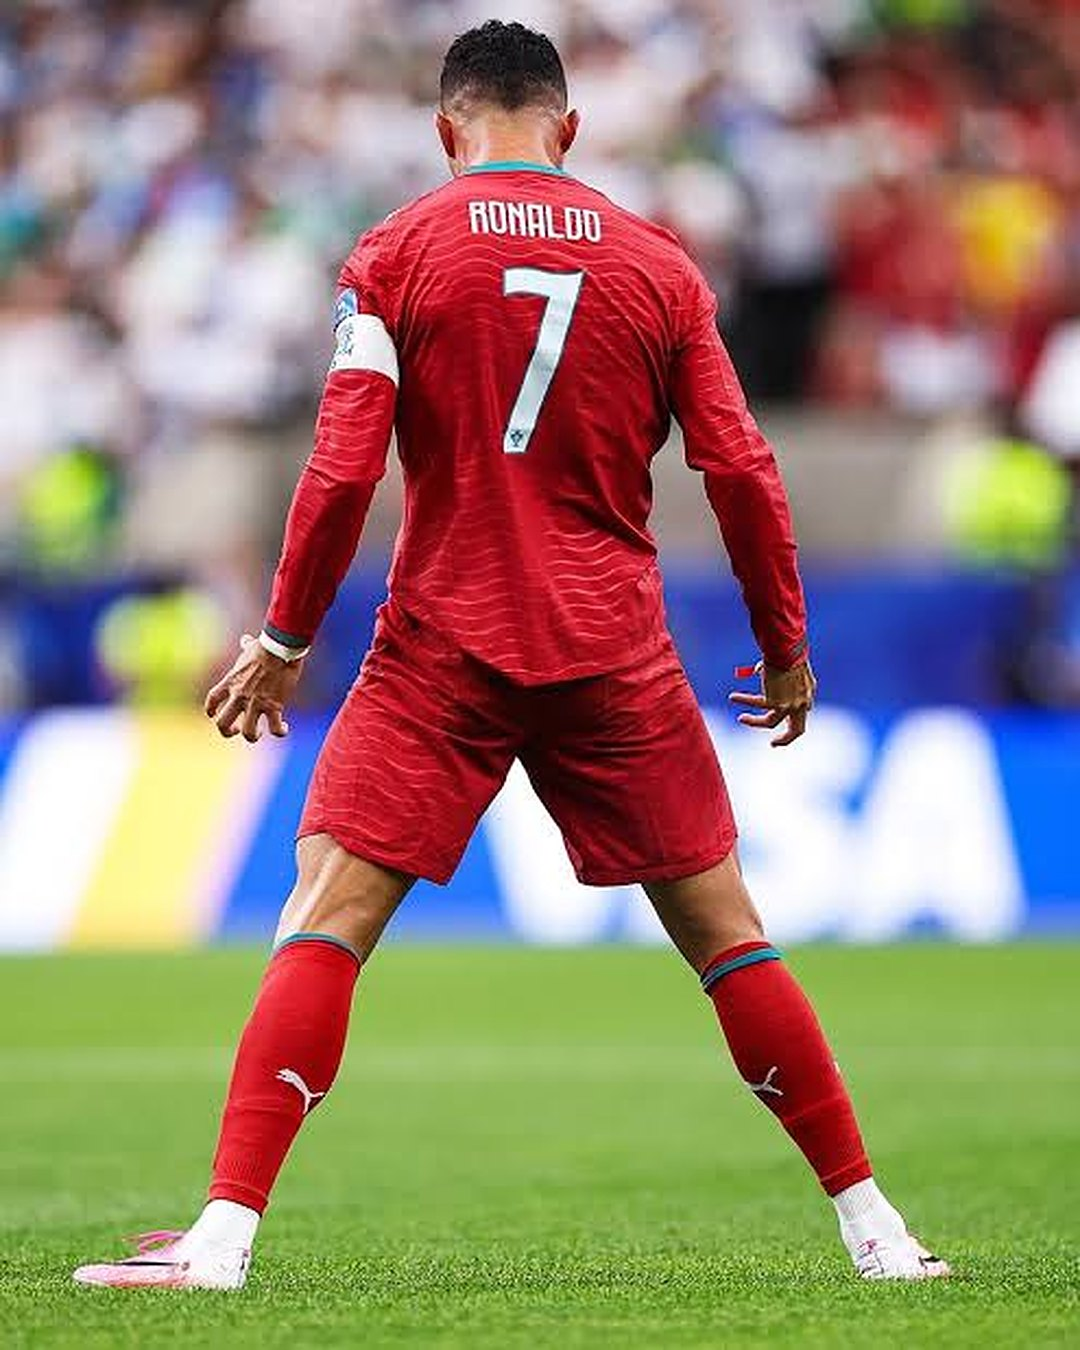
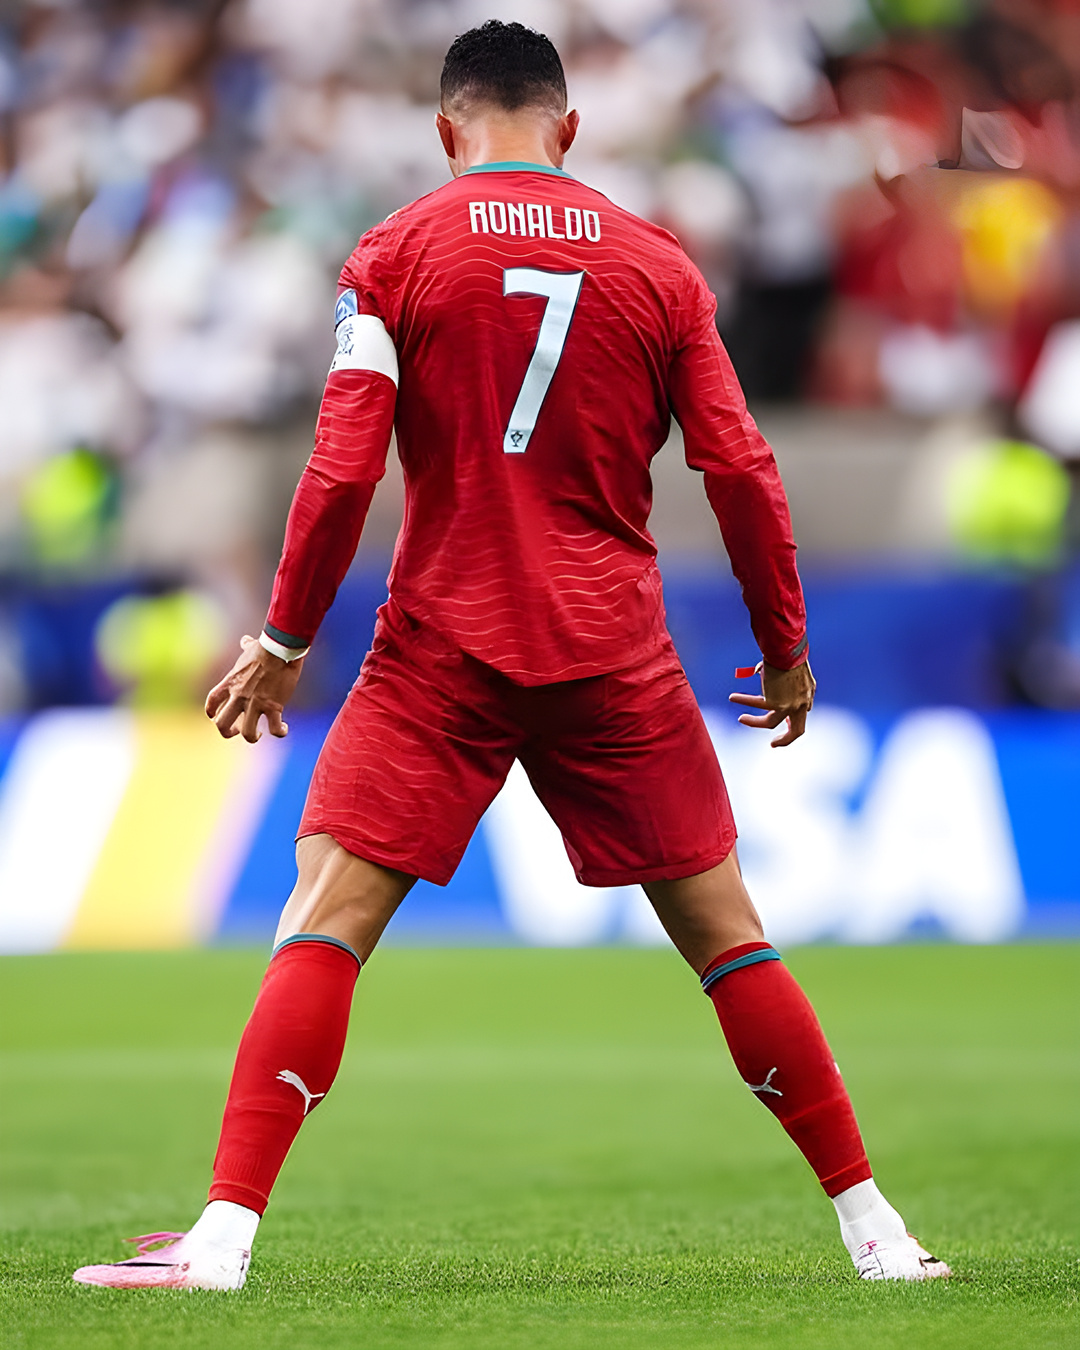
Full-quality photos: upscaled, served at 95, Tyson/Ali and Khabib/McGregor
Photos lost quality three ways: small originals were stretched, the vote
board went through next/image at its default quality of 75, and share cards
were saved at JPEG 84. Now:

- Every board and card photo is rebuilt from the owner's originals with
  Real-ESRGAN (scripts/upscale_photo.py) where it's smaller than its target,
  with some of the original texture kept so faces don't look airbrushed, and
  saved at JPEG 95 with full-resolution colour. Boards are 2400×1323 for
  sharp retina screens.
- The board photo is served at quality 95; 4:5 share cards are encoded at 94
  and link previews at 88, both 4:4:4 (previews stay 100–170 KB).
- Tyson vs Ali and Khabib vs McGregor use the paired photos on their boards
  and the singles on their share cards (Khabib's card is cut from the
  face-off until there's a single). The Tyson/Ali graphic's corner badge is
  shaded so the board's labels stay readable.
- The Messi and Ronaldo cards are rebuilt from their original photos.

CLAUDE.md now records the quality rule alongside the photo rule.

Claude-Session: https://claude.ai/code/session_01EnRk1dYfXhqjv1n2MkAWMc

diff --git a/src/lib/debates/sports.ts b/src/lib/debates/sports.ts
@@ -1,4 +1,6 @@
 import hamiltonVsVerstappenArtwork from "@/assets/debates/hamilton-vs-verstappen.jpg";
+import khabibVsMcgregorArtwork from "@/assets/debates/khabib-vs-mcgregor.jpg";
+import tysonVsAliArtwork from "@/assets/debates/tyson-vs-ali.jpg";
 
 import type { Debate } from "./types";
 
@@ -159,6 +161,7 @@ export const TYSON_VS_ALI: Debate = {
           gloves: { style: "boxing", color: "#b1171d" },
         },
       },
+      cardPhoto: "tyson.jpg",
       caseFor: [
         "Became the youngest heavyweight champion in history at 20 years and 4 months, stopping Trevor Berbick in the second round for the WBC title on 22 November 1986.",
         "Was the first heavyweight to hold the WBA, WBC and IBF titles at the same time, and reigned as undisputed champion from 1987 to 1990.",
@@ -200,6 +203,7 @@ export const TYSON_VS_ALI: Debate = {
           gloves: { style: "boxing", color: "#b1171d" },
         },
       },
+      cardPhoto: "ali.jpg",
       caseFor: [
         "Won light-heavyweight gold at the 1960 Olympics in Rome, competing as Cassius Clay.",
         "Took the world heavyweight title from Sonny Liston on 25 February 1964, aged 22.",
@@ -208,6 +212,7 @@ export const TYSON_VS_ALI: Debate = {
       ],
     },
   ],
+  artwork: { image: tysonVsAliArtwork, position: "50% 10%", file: "src/assets/debates/tyson-vs-ali.jpg" },
   seo: {
     title: "Tyson vs Ali: Who Is the Greatest Boxer? Vote Now",
     description: "Mike Tyson or Muhammad Ali? Compare records, knockouts, titles and famous fights, then cast your vote for the greatest heavyweight of all time.",
@@ -272,6 +277,7 @@ export const KHABIB_VS_MCGREGOR: Debate = {
           gloves: { style: "mma", color: "#141416" },
         },
       },
+      cardPhoto: "khabib.jpg",
       caseFor: [
         "Retired with a 29–0 professional record, including 13–0 in the UFC.",
         "Won the vacant UFC lightweight title against Al Iaquinta at UFC 223 on 7 April 2018.",
@@ -312,6 +318,7 @@ export const KHABIB_VS_MCGREGOR: Debate = {
           gloves: { style: "mma", color: "#141416" },
         },
       },
+      cardPhoto: "mcgregor.jpg",
       caseFor: [
         "Became the first fighter to hold UFC titles in two weight classes at the same time, adding the lightweight belt at UFC 205 in November 2016 to his featherweight title.",
         "Knocked out José Aldo in 13 seconds at UFC 194 in December 2015, the fastest finish in UFC title-fight history.",
@@ -320,6 +327,7 @@ export const KHABIB_VS_MCGREGOR: Debate = {
       ],
     },
   ],
+  artwork: { image: khabibVsMcgregorArtwork, position: "50% 40%", file: "src/assets/debates/khabib-vs-mcgregor.jpg" },
   seo: {
     title: "Khabib vs McGregor: Who Is the Greater Fighter? Vote Now",
     description: "Khabib Nurmagomedov or Conor McGregor? Compare records, UFC titles and their UFC 229 fight, then cast your vote for the greater fighter.",

diff --git a/src/lib/card/share-card.tsx b/src/lib/card/share-card.tsx
@@ -328,8 +328,13 @@ export async function renderCard(options: {
   }
 
   const png = await new ImageResponse(element, { ...CARD_FORMATS[format], fonts: CARD_FONTS }).arrayBuffer();
-  // Photo cards as PNG run to 1–2.5 MB; as JPEG they're a few hundred KB,
-  // small enough for chat apps to show them in link previews.
-  const jpeg = await sharp(Buffer.from(png)).jpeg({ quality: 84, mozjpeg: true, progressive: true }).toBuffer();
+  // Photo cards as PNG run to 1–2.5 MB. Link previews stay a few hundred KB as
+  // JPEG, small enough for chat apps to show; the 4:5 card people save and
+  // post is kept close to the original. Full-resolution colour (4:4:4) keeps
+  // the lettering and coloured edges crisp.
+  const quality = format === "post" ? 94 : 88;
+  const jpeg = await sharp(Buffer.from(png))
+    .jpeg({ quality, chromaSubsampling: "4:4:4", mozjpeg: true, progressive: true })
+    .toBuffer();
   return new Response(new Uint8Array(jpeg), { headers: { "Content-Type": "image/jpeg", ...headers } });
 }

diff --git a/next.config.ts b/next.config.ts
@@ -15,6 +15,10 @@ const nextConfig: NextConfig = {
   cacheComponents: true,
   partialPrefetching: true,
   poweredByHeader: false,
+  images: {
+    // 95 for the vote-board photos (see BoardArtwork); 75 is the default.
+    qualities: [75, 95],
+  },
   // Fonts and photos the image routes read from disk at request time.
   outputFileTracingIncludes: {
     "/api/card/**": ["./assets/**/*"],

diff --git a/src/components/debate/arena.tsx b/src/components/debate/arena.tsx
@@ -139,6 +139,7 @@ function BoardArtwork({ artwork, revealed }: { artwork: NonNullable<Debate["artw
         src={artwork.image}
         alt=""
         fill
+        quality={95}
         placeholder="blur"
         loading="eager"
         fetchPriority="high"

diff --git a/scripts/upscale_photo.py b/scripts/upscale_photo.py
@@ -1,0 +1,141 @@
+"""Upscales a photo with Real-ESRGAN before it's cropped for the site.
+
+Photos the owner sends are often small, recompressed JPEGs. Resizing them up
+blurs them and keeps the compression blocks; this model rebuilds detail and
+cleans the blocks instead. See CLAUDE.md for when to use it.
+
+Setup (once, outside the repo):
+    python3 -m venv ~/sr && ~/sr/bin/pip install torch numpy pillow
+    curl -LO https://github.com/xinntao/Real-ESRGAN/releases/download/v0.2.1/RealESRGAN_x2plus.pth
+    curl -LO https://github.com/xinntao/Real-ESRGAN/releases/download/v0.1.0/RealESRGAN_x4plus.pth
+
+Usage:
+    ~/sr/bin/python -I scripts/upscale_photo.py <weights.pth> <2|4> <in.jpg> <out.png> [texture]
+
+Use x2 when the photo needs up to 2× to reach its target size, x4 beyond that,
+then downscale the result with Lanczos to the exact size. The model cleans
+compression noise but also smooths natural texture, so `texture` (default
+0.35) adds that share of the original's fine detail back: 0 for logos, about
+0.8 for artwork with deliberate film grain. Runs on the CPU in tiles; weights
+are loaded with weights_only=True (tensors only, no code).
+"""
+import sys
+
+import numpy as np
+import torch
+import torch.nn.functional as F
+from PIL import Image, ImageFilter
+from torch import nn
+
+
+class ResidualDenseBlock(nn.Module):
+    def __init__(self, nf=64, gc=32):
+        super().__init__()
+        self.conv1 = nn.Conv2d(nf, gc, 3, 1, 1)
+        self.conv2 = nn.Conv2d(nf + gc, gc, 3, 1, 1)
+        self.conv3 = nn.Conv2d(nf + 2 * gc, gc, 3, 1, 1)
+        self.conv4 = nn.Conv2d(nf + 3 * gc, gc, 3, 1, 1)
+        self.conv5 = nn.Conv2d(nf + 4 * gc, nf, 3, 1, 1)
+        self.lrelu = nn.LeakyReLU(0.2, inplace=True)
+
+    def forward(self, x):
+        x1 = self.lrelu(self.conv1(x))
+        x2 = self.lrelu(self.conv2(torch.cat((x, x1), 1)))
+        x3 = self.lrelu(self.conv3(torch.cat((x, x1, x2), 1)))
+        x4 = self.lrelu(self.conv4(torch.cat((x, x1, x2, x3), 1)))
+        x5 = self.conv5(torch.cat((x, x1, x2, x3, x4), 1))
+        return x5 * 0.2 + x
+
+
+class RRDB(nn.Module):
+    def __init__(self, nf, gc=32):
+        super().__init__()
+        self.rdb1 = ResidualDenseBlock(nf, gc)
+        self.rdb2 = ResidualDenseBlock(nf, gc)
+        self.rdb3 = ResidualDenseBlock(nf, gc)
+
+    def forward(self, x):
+        return self.rdb3(self.rdb2(self.rdb1(x))) * 0.2 + x
+
+
+def pixel_unshuffle(x, s):
+    b, c, h, w = x.shape
+    return x.view(b, c, h // s, s, w // s, s).permute(0, 1, 3, 5, 2, 4).reshape(b, c * s * s, h // s, w // s)
+
+
+class RRDBNet(nn.Module):
+    def __init__(self, scale, nf=64, nb=23, gc=32):
+        super().__init__()
+        self.scale = scale
+        cin = 3 * (4 if scale == 2 else 1)
+        self.conv_first = nn.Conv2d(cin, nf, 3, 1, 1)
+        self.body = nn.Sequential(*[RRDB(nf, gc) for _ in range(nb)])
+        self.conv_body = nn.Conv2d(nf, nf, 3, 1, 1)
+        self.conv_up1 = nn.Conv2d(nf, nf, 3, 1, 1)
+        self.conv_up2 = nn.Conv2d(nf, nf, 3, 1, 1)
+        self.conv_hr = nn.Conv2d(nf, nf, 3, 1, 1)
+        self.conv_last = nn.Conv2d(nf, 3, 3, 1, 1)
+        self.lrelu = nn.LeakyReLU(0.2, inplace=True)
+
+    def forward(self, x):
+        feat = pixel_unshuffle(x, 2) if self.scale == 2 else x
+        feat = self.conv_first(feat)
+        feat = feat + self.conv_body(self.body(feat))
+        feat = self.lrelu(self.conv_up1(F.interpolate(feat, scale_factor=2, mode="nearest")))
+        feat = self.lrelu(self.conv_up2(F.interpolate(feat, scale_factor=2, mode="nearest")))
+        return self.conv_last(self.lrelu(self.conv_hr(feat)))
+
+
+def upscale(model, img, scale, tile=None, pad=16):
+    """Runs the model over overlapping tiles so memory stays flat on big images."""
+    # Big tiles keep the overlap overhead low; the x4 model's upsampling stages
+    # are 16× the tile area, so its tiles are smaller.
+    tile = tile or (384 if scale == 4 else 640)
+    x = torch.from_numpy(np.asarray(img, dtype=np.float32) / 255.0).permute(2, 0, 1)[None]
+    _, _, h, w = x.shape
+    # The x2 model works on 2×2 blocks: pad to even sizes.
+    ph, pw = h % 2, w % 2
+    if ph or pw:
+        x = F.pad(x, (0, pw, 0, ph), mode="reflect")
+    _, _, H, W = x.shape
+    out = torch.zeros(1, 3, H * scale, W * scale)
+    for y0 in range(0, H, tile):
+        for x0 in range(0, W, tile):
+            y1, x1 = min(y0 + tile, H), min(x0 + tile, W)
+            ya, xa = max(y0 - pad, 0), max(x0 - pad, 0)
+            # H, W, tile and pad are all even, so every tile is too (the x2 model needs it).
+            yb, xb = min(y1 + pad, H), min(x1 + pad, W)
+            with torch.inference_mode():
+                y = model(x[:, :, ya:yb, xa:xb].contiguous(memory_format=torch.channels_last)).contiguous()
+            oy, ox = (y0 - ya) * scale, (x0 - xa) * scale
+            out[:, :, y0 * scale:y1 * scale, x0 * scale:x1 * scale] = y[:, :, oy:oy + (y1 - y0) * scale, ox:ox + (x1 - x0) * scale]
+    out = out[:, :, : h * scale, : w * scale]
+    arr = (out[0].clamp(0, 1).permute(1, 2, 0).numpy() * 255.0).round().astype(np.uint8)
+    return Image.fromarray(arr)
+
+
+def with_texture(upscaled, original, amount):
+    """Adds `amount` of the original's fine detail (high-pass) back onto the upscale."""
+    if amount <= 0:
+        return upscaled
+    plain = original.resize(upscaled.size, Image.LANCZOS)
+    detail = np.asarray(plain, np.float32) - np.asarray(plain.filter(ImageFilter.GaussianBlur(1.6)), np.float32)
+    return Image.fromarray(np.clip(np.asarray(upscaled, np.float32) + amount * detail, 0, 255).astype(np.uint8))
+
+
+def main():
+    weights, scale, src, dst = sys.argv[1], int(sys.argv[2]), sys.argv[3], sys.argv[4]
+    texture = float(sys.argv[5]) if len(sys.argv) > 5 else 0.35
+    torch.set_num_threads(4)
+    model = RRDBNet(scale)
+    state = torch.load(weights, map_location="cpu", weights_only=True)
+    model.load_state_dict(state.get("params_ema", state.get("params", state)), strict=True)
+    model.eval()
+    model.to(memory_format=torch.channels_last)
+    img = Image.open(src).convert("RGB")
+    with_texture(upscale(model, img, scale), img, texture).save(dst)
+    print(f"{src} {img.size} -> x{scale}")
+
+
+if __name__ == "__main__":
+    main()

diff --git a/CLAUDE.md b/CLAUDE.md
@@ -6,7 +6,7 @@ When the owner sends photos for a debate:
 
 - **Both options in one photo** (e.g. Ronaldinho and Neymar side by side, Hamilton
   and Verstappen side by side) → the **vote board**. Save it as
-  `src/assets/debates/<debate-slug>.jpg`, 1500×827, first option on the left (swap
+  `src/assets/debates/<debate-slug>.jpg`, 2400×1323, first option on the left (swap
   the halves if the photo has them the other way round; crop out any stats or
   captions), and set it as the debate's `artwork` with `file` pointing at it.
 - **One option alone** → that option's **share card**. Save it as
@@ -16,3 +16,18 @@ When the owner sends photos for a debate:
 If a debate has singles but no pair photo, the board can be built from the two
 singles; if an option has no single, its card can be cropped from its half of
 the pair photo. Say which fallback was used.
+
+## Photo quality (the owner's rule)
+
+Never ship a photo at lower quality than it arrived:
+
+- When a photo is smaller than its target (board half 1200×1323, card
+  1080×1350), upscale it with `scripts/upscale_photo.py` (Real-ESRGAN) first,
+  then crop and downscale with Lanczos. Never just stretch it. Keep some of
+  the original texture (the script's `texture` argument) so faces don't look
+  airbrushed; artwork with deliberate grain (the Messi vs Ronaldo poster)
+  keeps most of it.
+- Save JPEGs at quality 95 with 4:4:4 colour (Pillow: `quality=95,
+  subsampling=0`). The vote board is served through `next/image` at
+  `quality={95}`; share cards are encoded at 94 (4:5) and 88 (link previews).
+- Look at the result next to the original before committing.

diff --git a/README.md b/README.md
@@ -183,8 +183,10 @@ country header (`x-vercel-ip-country` or `cf-ipcountry`).
    (4:5) JPEG in `assets/cards/` for that option's share card and link preview.
    Use photos you have the rights to publish. To show the artwork in the
    debate's link preview, also set `artwork.file` to its path. A photo with
-   both options in it is the board artwork (first option on the left); a photo
-   of one option alone is that option's `cardPhoto`.
+   both options in it is the board artwork (2400×1323, first option on the
+   left); a photo of one option alone is that option's `cardPhoto`. Upscale
+   small photos with `scripts/upscale_photo.py` rather than stretching them
+   (see CLAUDE.md).
 2. Optionally add a trophy cabinet in `src/lib/trophies.ts` (honours grouped
    by category, individual awards, records). The `/:debate/trophies` page,
    its totals, the navigation link and the sitemap entry follow from it.
